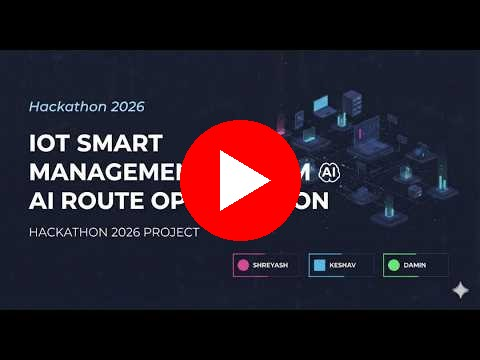
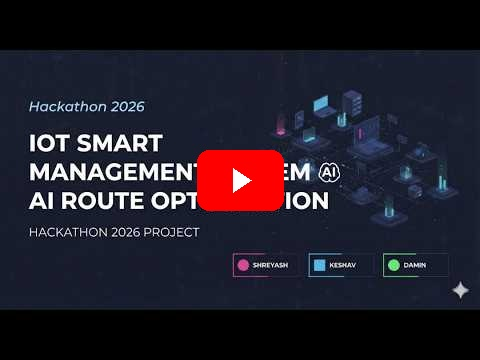
Editing the thumbnail playback

Changed region(s): [[0.375, 0.3056, 0.6562, 0.6722]]

diff --git a/generate_thumbnail.py b/generate_thumbnail.py
@@ -1,0 +1,74 @@
+
+import urllib.request
+from PIL import Image, ImageDraw
+import os
+
+# Define paths
+assets_dir = "assets"
+original_thumb_path = os.path.join(assets_dir, "original_thumb.jpg")
+final_thumb_path = os.path.join(assets_dir, "video_demo_with_play.jpg")
+youtube_url = "https://img.youtube.com/vi/Ys-yf6mtv4s/hqdefault.jpg"
+
+# Ensure assets directory exists
+if not os.path.exists(assets_dir):
+    os.makedirs(assets_dir)
+
+# 1. Download the thumbnail
+print(f"Downloading thumbnail from {youtube_url}...")
+urllib.request.urlretrieve(youtube_url, original_thumb_path)
+
+# 2. Open image and prepare for drawing
+img = Image.open(original_thumb_path).convert("RGBA")
+width, height = img.size
+overlay = Image.new("RGBA", (width, height), (0, 0, 0, 0))
+draw = ImageDraw.Draw(overlay)
+
+# 3. Define Button Dimensions (YouTube Style Rounded Rectangle)
+# "Medium" size: Let's aim for the button width to be roughly 15% of image width
+button_width = int(width * 0.18)  # Slightly larger than 15% for visibility, but "medium"
+button_height = int(button_width * 0.7) # Aspect ratio roughly 1.4:1
+center_x, center_y = width // 2, height // 2
+
+x0 = center_x - button_width // 2
+y0 = center_y - button_height // 2
+x1 = center_x + button_width // 2
+y1 = center_y + button_height // 2
+
+# Corner radius (approx 20% of height)
+radius = int(button_height * 0.2)
+
+# 4. Draw Red Background (YouTube Red: #FF0000)
+# We use a slightly transparent red to look nice, or fully opaque for "original" feel.
+# Authentic YouTube is fully opaque usually, but on thumbnails, semi-transparent often looks better.
+# User asked for "Original", so let's go with a very slightly transparent Red (90% opacity) or solid.
+# Let's do solid standard Red (255, 0, 0)
+draw.rounded_rectangle([x0, y0, x1, y1], radius=radius, fill=(255, 0, 0, 255))
+
+# 5. Draw White Play Triangle
+# Dimensions relative to button height
+tri_height = int(button_height * 0.4)
+tri_width = int(tri_height * 0.8) # Slightly narrower than equilateral
+
+# Accurate centering for the triangle visual weight
+# Move slightly to the right to look optically centered
+tri_center_x = center_x + (tri_width // 8) 
+tri_center_y = center_y
+
+p1 = (tri_center_x - tri_width // 2, tri_center_y - tri_height // 2)
+p2 = (tri_center_x - tri_width // 2, tri_center_y + tri_height // 2)
+p3 = (tri_center_x + tri_width // 2, tri_center_y)
+
+draw.polygon([p1, p2, p3], fill=(255, 255, 255, 255))
+
+# 6. Composite
+final_img = Image.alpha_composite(img, overlay)
+final_img = final_img.convert("RGB")
+
+# 7. Save
+final_img.save(final_thumb_path, "JPEG", quality=95)
+
+# Clean up
+if os.path.exists(original_thumb_path):
+    os.remove(original_thumb_path)
+
+print(f"Success! Saved authentic video thumbnail to {final_thumb_path}")
